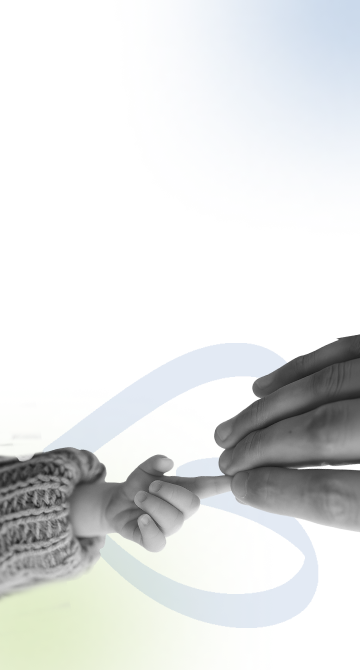
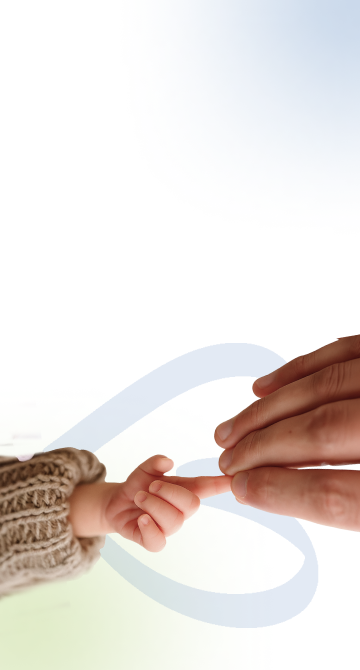
image updated

Changed region(s): [[0.0, 0.4776, 1.0, 0.8657]]

diff --git a/src/page-components/doctors/DoctorsPart.tsx b/src/page-components/doctors/DoctorsPart.tsx
@@ -6,14 +6,14 @@ const DoctorsPart = () => {
       <div
         className="section-spacing relative flex w-full h-[605px] px-10 md:px-12 lg:px-[90px] py-10 md:py-14 bg-cover bg-center"
         style={{
-          backgroundImage: "url('/DoctorsSection/Doctors banner mobile.png')",
+          backgroundImage: "url('/DoctorsSection/DoctorsPartM.png')",
         }}
       >
         {/* Large screen background */}
         <div
           className="hidden lg:block absolute inset-0 bg-cover bg-center"
           style={{
-            backgroundImage: "url('/DoctorsSection/Doctors banner 2.png')",
+            backgroundImage: "url('/DoctorsSection/DoctorsPartD.png')",
           }}
         ></div>
 

diff --git a/src/page-components/treatment-slug/ParenthoodBanner.tsx b/src/page-components/treatment-slug/ParenthoodBanner.tsx
@@ -10,7 +10,7 @@ const ParenthoodBanner = () => {
       style={{
         backgroundImage: !isLargeDevice
           ? "url('/treatments/bg-banner-small-device-hands.png')"
-          : "url('/treatments/bg baner.png')",
+          : "url('/treatments/bg-bannerM.png')",
           backgroundPosition: 'bottom',
       }}
     >
